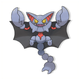
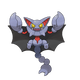
Mentor Profile Updates
Added Vacate's profile, renamed profile to Doughboy, multiple picture fixes.

diff --git a/old-scms-content/mentorship/profiles.html b/old-scms-content/mentorship/profiles.html
@@ -256,6 +256,22 @@ Mentor Profiles
             <strong>Interesting Fact:</strong> Most of the time, he only uses teams of Pok&eacute;mon that look good together in the team preview.<br />
         </p>
     </div>
+    
+        <div class="profile">
+        <img src="/media/upload/mentorship/hitmontop.png" alt="" />
+        <div class="button"><a href="/forums/member.php?u=105990">profile</a></div>
+        <h2>Doughboy</h2>
+        <hr class="separator"></hr>
+        <p>
+            <strong>Timezone:</strong> GMT -5<br />
+            <strong>Language:</strong> English<br />
+            <strong>Content Areas:</strong><span class="areas"> Overused, Other Metagames, IRC, Rate My Team</span><br />
+            <strong>Well-known Contribution:</strong> Better Battlers Project<br />
+            <strong>Hobbies:</strong> He enjoys playing basketball and soccer. He used to run long distance track, but had to stop for this season. Other than that, he really enjoys playing board games, especially chess and those complicated German ones like Settlers of Catan. Recently he's gotten into manga with One Piece.<br />
+            <strong>Interesting Fact:</strong> He can put both of his legs over his head. <br />
+        </p>
+    </div>
+    
     <div class="profile">
         <img src="/media/upload/mentorship/scraggy.png" alt="" />
         <div class="button"><a href="/forums/member.php?u=92640">profile</a></div>
@@ -942,20 +958,7 @@ Mentor Profiles
             <strong>Interesting Fact:</strong> He once heard <a href="/forums/member.php?u=66676">Birkal</a> sing and play the ukelele, and his soul has forever been touched by it.<br />
         </p>
     </div>
-    <div class="profile">
-        <img src="/media/upload/mentorship/hitmontop.png" alt="" />
-        <div class="button"><a href="/forums/member.php?u=105990">profile</a></div>
-        <h2>ThePillsburyDoughBoy</h2>
-        <hr class="separator"></hr>
-        <p>
-            <strong>Timezone:</strong> GMT -5<br />
-            <strong>Language:</strong> English<br />
-            <strong>Content Areas:</strong><span class="areas"> Overused, Other Metagames, IRC, Rate My Team</span><br />
-            <strong>Well-known Contribution:</strong> Better Battlers Project<br />
-            <strong>Hobbies:</strong> He enjoys playing basketball and soccer. He used to run long distance track, but had to stop for this season. Other than that, he really enjoys playing board games, especially chess and those complicated German ones like Settlers of Catan. Recently he's gotten into manga with One Piece.<br />
-            <strong>Interesting Fact:</strong> He can put both of his legs over his head. <br />
-        </p>
-    </div>
+
     <div class="profile">
         <img src="/media/upload/mentorship/glaceon.png" alt="" />
         <div class="button"><a href="/forums/member.php?u=30562">profile</a></div>
@@ -1014,6 +1017,22 @@ Mentor Profiles
             <strong>Interesting Fact:</strong> Harsha and Sayonara were his tutees and the people that encouraged him to pursue the Team Rater badge. He is working towards becoming a registered nurse.<br />
         </p>
     </div>
+    
+        <div class="profile">
+        <img src="/media/upload/mentorship/rotomw.png" alt="" />
+        <div class="button"><a href="/forums/members/vacate.189371/">profile</a></div>
+        <h2>Vacate</h2>
+        <hr class="separator"></hr>
+        <p>
+            <strong>Timezone:</strong> GMT<br />
+            <strong>Language:</strong> English<br />
+            <strong>Content Areas:</strong> <span class="areas">Pokemon Showdown!<br />
+            <strong>Well-known Contribution:</strong> He's well-known for managing some of the most popular rooms on PS!, and is a server Moderator (@).<br />
+            <strong>Hobbies:</strong> He's involved in choral singing, debating, and academic study. He's almost certainly a nerd.<br />
+            <strong>Interesting Fact:</strong> He was the first user to get a <a href="/forums/threads/badge-faq.3498079/">ladybug</a> for contributions to the Mentorship Program, but he only had the badge for 3 days as he received his Battle Server Moderator badge shortly after.<br />
+        </p>
+    </div>
+    
     <div class="profile">
         <img src="/media/upload/mentorship/porygon.png" alt="" />
         <div class="button"><a href="/forums/member.php?u=26772">profile</a></div>
